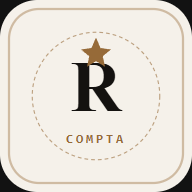
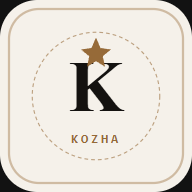
Renommage de l'application en Kozha

diff --git a/src/components/InstallPwaModal.tsx b/src/components/InstallPwaModal.tsx
@@ -25,7 +25,7 @@ export const InstallPwaModal: React.FC<InstallPwaModalProps> = ({
         <div className="flex justify-between items-baseline border-b border-border pb-3 mb-4">
           <div className="flex items-center gap-2">
             <Download size={18} className="text-accent" />
-            <h3 className="font-heading text-lg font-bold text-primary">Installer Rita Compta</h3>
+            <h3 className="font-heading text-lg font-bold text-primary">Installer Kozha</h3>
           </div>
           <button onClick={onClose} className="text-secondary hover:text-primary p-1">
             <X size={18} />
@@ -33,9 +33,9 @@ export const InstallPwaModal: React.FC<InstallPwaModalProps> = ({
         </div>
 
         <div className="flex items-center gap-3.5 p-3.5 bg-surface-subtle border border-border rounded-sm mb-5">
-          <img src="/icon.svg" alt="Rita Compta Logo" className="w-12 h-12 rounded-sm border border-border" />
+          <img src="/icon.svg" alt="Kozha Logo" className="w-12 h-12 rounded-sm border border-border" />
           <div>
-            <div className="font-heading font-bold text-sm text-primary">Rita Compta</div>
+            <div className="font-heading font-bold text-sm text-primary">Kozha</div>
             <div className="text-xs text-secondary">Accès instantané, plein écran & mode hors ligne sur les marchés</div>
           </div>
         </div>
@@ -43,7 +43,7 @@ export const InstallPwaModal: React.FC<InstallPwaModalProps> = ({
         {hasNativePrompt ? (
           <div className="space-y-4">
             <p className="text-xs text-secondary leading-relaxed">
-              Installez Rita Compta sur votre écran d'accueil ou sur votre ordinateur pour l'utiliser sans barre de navigateur, comme une application native.
+              Installez Kozha sur votre écran d'accueil ou sur votre ordinateur pour l'utiliser sans barre de navigateur, comme une application native.
             </p>
             <div className="flex justify-end gap-3 pt-2">
               <button
@@ -84,7 +84,7 @@ export const InstallPwaModal: React.FC<InstallPwaModalProps> = ({
               <li className="flex items-start gap-2.5">
                 <span className="font-mono font-bold text-accent">3.</span>
                 <span>
-                  Touchez <strong className="text-primary">Ajouter</strong> en haut à droite. L'icône Rita Compta apparaîtra directement sur votre écran d'accueil !
+                  Touchez <strong className="text-primary">Ajouter</strong> en haut à droite. L'icône Kozha apparaîtra directement sur votre écran d'accueil !
                 </span>
               </li>
             </ol>

diff --git a/index.html b/index.html
@@ -3,7 +3,7 @@
   <head>
     <meta charset="UTF-8" />
     <meta name="viewport" content="width=device-width, initial-scale=1.0, maximum-scale=1.0, user-scalable=no" />
-    <title>Rita Compta — Luxe Vintage</title>
+    <title>Kozha — Luxe Vintage</title>
     
     <!-- PWA & Favicon -->
     <link rel="icon" type="image/svg+xml" href="/icon.svg" />
@@ -14,7 +14,7 @@
     <meta name="mobile-web-app-capable" content="yes" />
     <meta name="apple-mobile-web-app-capable" content="yes" />
     <meta name="apple-mobile-web-app-status-bar-style" content="default" />
-    <meta name="apple-mobile-web-app-title" content="Rita Compta" />
+    <meta name="apple-mobile-web-app-title" content="Kozha" />
     <link rel="apple-touch-icon" href="/icon-192.png" />
 
     <!-- Google Fonts -->

diff --git a/src/components/Header.tsx b/src/components/Header.tsx
@@ -34,7 +34,7 @@ export const Header: React.FC<HeaderProps> = ({
         {/* Brand */}
         <div className="flex items-baseline gap-3">
           <h1 className="font-heading text-2xl font-bold tracking-tight text-primary">
-            Rita Compta
+            Kozha
           </h1>
           <span className="font-mono text-[11px] uppercase tracking-widest text-accent px-2 py-0.5 border border-accent rounded-sm">
             Luxe Vintage

diff --git a/public/sw.js b/public/sw.js
@@ -1,4 +1,4 @@
-const CACHE_NAME = 'rita-compta-cache-v1';
+const CACHE_NAME = 'kozha-cache-v1';
 const ASSETS_TO_CACHE = [
   '/',
   '/index.html',

diff --git a/README.md b/README.md
@@ -1,4 +1,4 @@
-# Rita Compta — Luxe Vintage 🧥✨
+# Kozha — Luxe Vintage 🧥✨
 
 Application web mobile-first & PWA sur-mesure pour la gestion d'inventaire, le rapprochement de catalogue Vinted et la comptabilité des ventes de pièces de luxe vintage.
 
